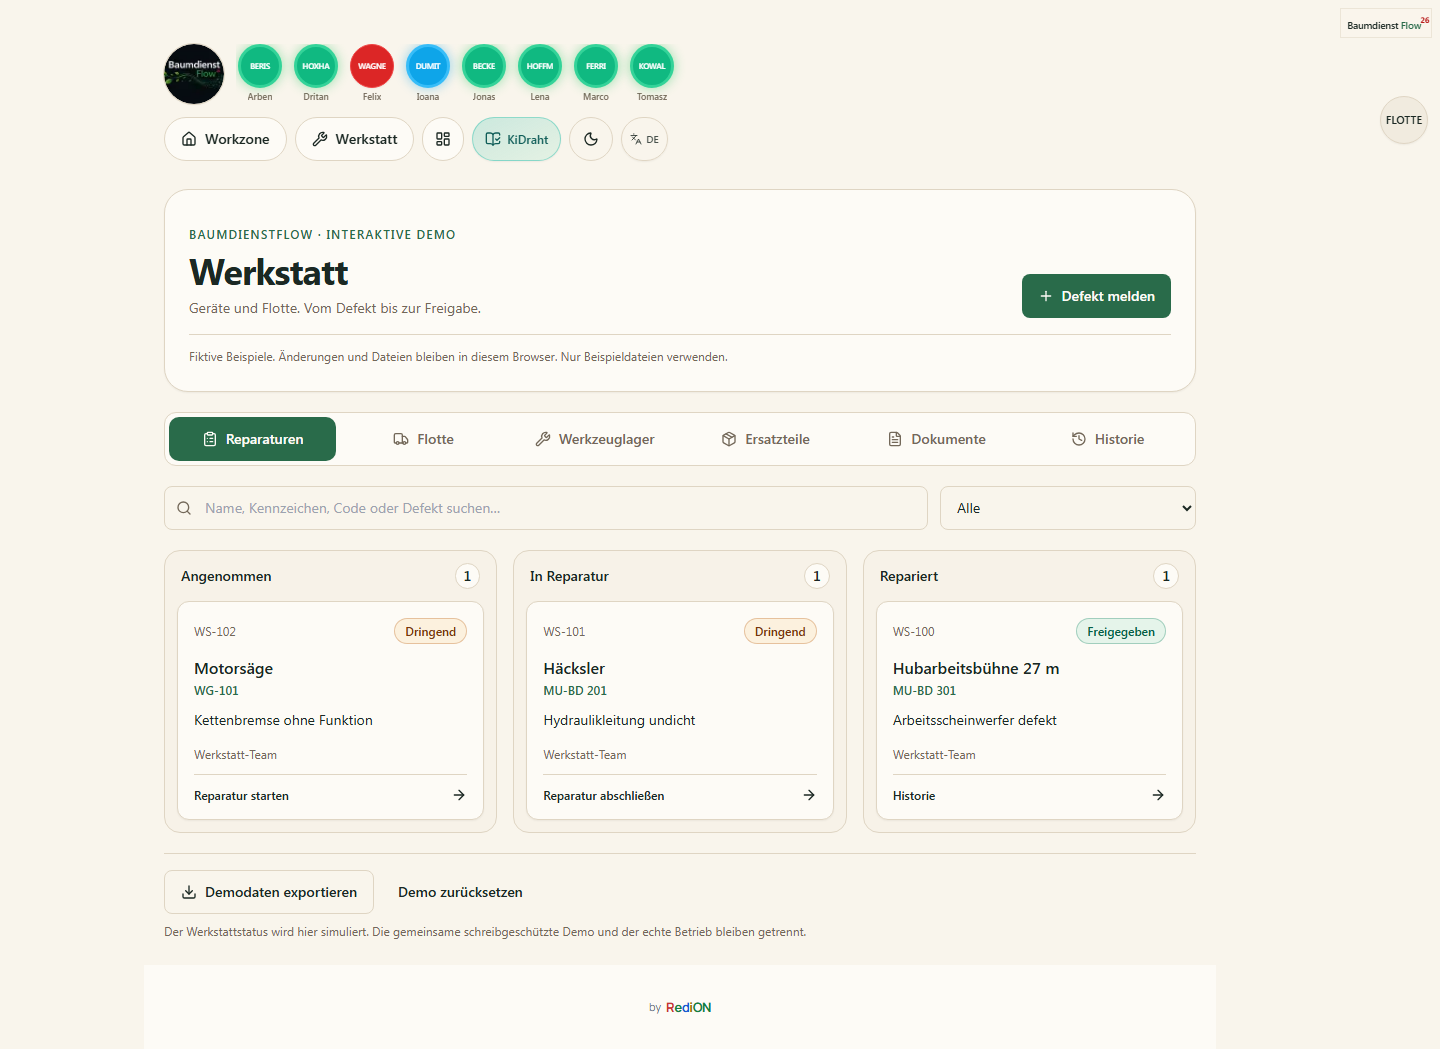
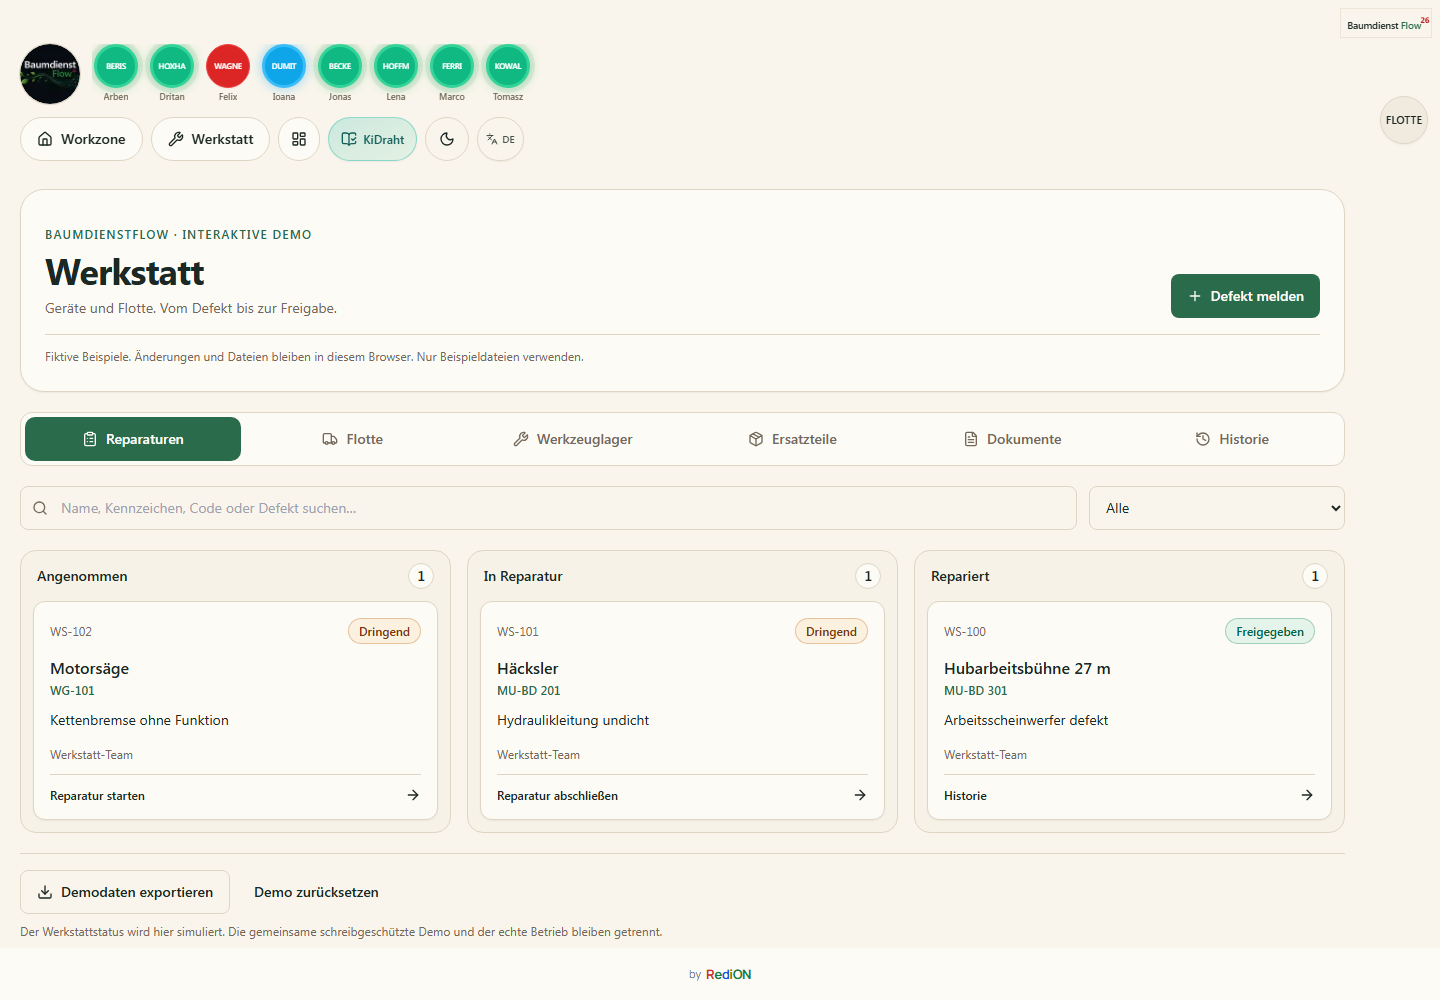
Use a viewport workspace and centered footer in Baumdienst demo

diff --git a/tests/workshop/workshop-workspace.spec.ts b/tests/workshop/workshop-workspace.spec.ts
@@ -1,0 +1,63 @@
+import { expect, test } from "@playwright/test";
+
+test("workspace uses the viewport, keeps shell reachable, and preserves small-save position", async ({ page, context }, info) => {
+  await context.addCookies([{ name: "bk_lang", value: "de", url: String(info.project.use.baseURL) }]);
+  await context.route("https://*.tile.openstreetmap.org/**", route => route.abort());
+  const errors: string[] = [];
+  page.on("pageerror", error => errors.push(error.message));
+  for (const theme of ["light", "dark"]) for (const size of [{ width: 1440, height: 900 }, { width: 390, height: 844 }, { width: 844, height: 390 }, { width: 390, height: 360 }]) {
+    await context.addCookies([{ name: "bk_theme", value: theme, url: String(info.project.use.baseURL) }]);
+    await page.setViewportSize(size);
+    for (const route of ["/demo/workshop", "/demo/workshop?tab=tools", "/demo/workzone", "/demo/dashboard"]) {
+      await page.goto(route);
+      const workspace = page.getByTestId("demo-workspace");
+      await expect(workspace).toBeVisible();
+      const signature = page.getByRole("link", { name: "by RediON", exact: true });
+      await expect(signature).toHaveCount(1);
+      const footer = (await signature.boundingBox())!;
+      expect(Math.abs(footer.x + footer.width / 2 - size.width / 2)).toBeLessThan(2);
+      expect(footer.y + footer.height).toBeLessThanOrEqual(size.height);
+      expect((await workspace.boundingBox())!.height).toBeGreaterThan(120);
+      const dimensions = await workspace.evaluate(el => ({ width: el.clientWidth, outer: document.documentElement.scrollHeight, viewport: innerHeight, wide: document.documentElement.scrollWidth <= innerWidth }));
+      expect(dimensions.width).toBeGreaterThan(size.width - 24);
+      expect(dimensions.outer).toBeLessThanOrEqual(dimensions.viewport + 1);
+      expect(dimensions.wide).toBe(true);
+      await workspace.evaluate(el => { el.scrollTop = el.scrollHeight; });
+      await expect.poll(async () => workspace.evaluate(el => el.scrollHeight - el.clientHeight - el.scrollTop)).toBeLessThanOrEqual(1);
+      const footerAfter = (await signature.boundingBox())!;
+      expect(footerAfter.y).toBe(footer.y);
+      const scrollers = await page.evaluate(() => [...document.querySelectorAll<HTMLElement>("body *")].filter(el => {
+        const s = getComputedStyle(el); return /auto|scroll/.test(s.overflowY) && el.scrollHeight > el.clientHeight + 2 && el.getBoundingClientRect().width > 0 && el.getBoundingClientRect().height > 0;
+      }).map(el => el.getAttribute("data-testid") || el.tagName));
+      expect(scrollers.filter(id => id !== "demo-workspace")).toEqual([]);
+      if (route === "/demo/workshop") await page.screenshot({ path: info.outputPath(`shell-${theme}-${size.width}-${size.height}.png`) });
+    }
+  }
+  // Text-only zoom retains readable wrapping without trapping the workspace.
+  await page.setViewportSize({ width: 390, height: 844 });
+  await page.goto("/demo/workshop");
+  await expect(page.getByRole("button", { name: "Defekt melden", exact: true })).toBeEnabled();
+  await page.addStyleTag({ content: "html { font-size: 200% !important; }" });
+  expect(await page.evaluate(() => document.documentElement.scrollWidth <= innerWidth)).toBe(true);
+  const zoomWorkspace = page.getByTestId("demo-workspace");
+  expect((await zoomWorkspace.boundingBox())!.height).toBeGreaterThan(120);
+  await zoomWorkspace.focus();
+  await page.keyboard.press("Control+End");
+  await expect.poll(async () => zoomWorkspace.evaluate(el => el.scrollHeight - el.clientHeight - el.scrollTop)).toBeLessThanOrEqual(1);
+  await page.getByRole("button", { name: "Demo zurücksetzen", exact: true }).scrollIntoViewIfNeeded();
+  await expect(page.getByRole("button", { name: "Demo zurücksetzen", exact: true })).toBeInViewport();
+  await page.screenshot({ path: info.outputPath("shell-text-zoom.png") });
+  await page.goto("/demo/workshop?tab=parts");
+  await expect(page.getByRole("button", { name: "Bestand auffüllen", exact: true }).last()).toBeEnabled();
+  const workspace = page.getByTestId("demo-workspace");
+  const restock = page.getByRole("button", { name: "Bestand auffüllen", exact: true }).last();
+  await restock.scrollIntoViewIfNeeded();
+  const before = await workspace.evaluate(el => el.scrollTop);
+  expect(before).toBeGreaterThan(50);
+  await restock.click();
+  await expect(page.getByTestId("workshop-demo").getByRole("status")).toContainText(/gespeichert/i);
+  const after = await workspace.evaluate(el => el.scrollTop);
+  expect(after).toBeGreaterThan(50);
+  expect(Math.abs(after - before)).toBeLessThan(100);
+  expect(errors).toEqual([]);
+});

diff --git a/src/app/demo/layout.tsx b/src/app/demo/layout.tsx
@@ -1,9 +1,12 @@
 import type { ReactNode } from "react";
+import type { Viewport } from "next";
 import { notFound } from "next/navigation";
 
 import { DemoTopBar } from "@/components/demo/demo-top-bar";
 import { DemoMachineRail } from "@/components/demo/demo-machine-rail";
 import { WorkshopFleet } from "@/components/demo/workshop/workshop-fleet";
+import { DemoWorkspace } from "@/components/demo/demo-workspace";
+import shellStyles from "@/components/demo/demo-workspace.module.css";
 import { RediOnFooter } from "@/components/branding/RediOnFooter";
 import { LiveRefreshListener } from "@/components/realtime/live-refresh-listener";
 import { getCompanyMode, getOrCreateDefaultCompany } from "@/lib/db/company";
@@ -11,6 +14,8 @@ import { getFeatures } from "@/lib/mode-config";
 import { prisma } from "@/lib/db/prisma";
 import { getMachineSidebarData } from "@/lib/workzone/machine-sidebar-data";
 import { isPublicDemoEnabled } from "@/lib/public-demo";
+
+export const viewport: Viewport = { width: "device-width", initialScale: 1, interactiveWidget: "resizes-content" };
 
 export default async function DemoLayout({ children }: { children: ReactNode }) {
   // No login on these pages: never serve them outside a demo/local instance.
@@ -63,8 +68,8 @@ export default async function DemoLayout({ children }: { children: ReactNode }) 
   const pageTone = mode === "baumdienst" ? "dark:bg-[#10211a]" : "";
 
   return (
-    <div className={`min-h-dvh overflow-x-hidden bg-background text-foreground ${pageTone}`}>
-      <header className={mode === "baumdienst" ? "relative z-10 bg-transparent print:hidden" : `sticky top-0 z-10 bg-background/90 backdrop-blur print:hidden ${pageTone}`}>
+    <div className={`${mode === "baumdienst" ? shellStyles.shell : "min-h-dvh overflow-x-hidden"} bg-background text-foreground ${pageTone}`}>
+      <header className={mode === "baumdienst" ? `${shellStyles.header} relative z-10 bg-transparent print:hidden` : `sticky top-0 z-10 bg-background/90 backdrop-blur print:hidden ${pageTone}`}>
         <div className="pt-3">
           <DemoTopBar
             mode={mode}
@@ -89,10 +94,10 @@ export default async function DemoLayout({ children }: { children: ReactNode }) 
       </header>
       {features.machines ? mode === "baumdienst" ? <WorkshopFleet machines={machines} now={new Date().toISOString()} /> : <DemoMachineRail machines={machines} /> : null}
       <LiveRefreshListener enabled />
-      <div className="mx-auto max-w-6xl lg:pr-20">
-        <main className={`${mode === "baumdienst" ? "px-5 pb-6 pt-4" : "px-5 pb-24 pt-4 lg:pb-6"} print:max-w-none print:px-0 print:py-0`}>{children}</main>
+      {mode === "baumdienst" ? <><DemoWorkspace>{children}</DemoWorkspace><div className={shellStyles.footer}><RediOnFooter compact /></div></> : <div className="mx-auto max-w-6xl lg:pr-20">
+        <main className="px-5 pb-24 pt-4 lg:pb-6 print:max-w-none print:px-0 print:py-0">{children}</main>
         <RediOnFooter />
-      </div>
+      </div>}
     </div>
   );
 }

diff --git a/src/components/demo/demo-top-bar.tsx b/src/components/demo/demo-top-bar.tsx
@@ -32,9 +32,9 @@ export async function DemoTopBar({ workers, mode }: { workers: DemoWorker[]; mod
 
   if (mode === "baumdienst") {
     const c = workshopCopy(currentLang); const dark = (await cookies()).get("bk_theme")?.value === "dark";
-    return <div className="mx-auto max-w-6xl px-5 pb-3 pt-8 lg:pr-20" data-testid="baum-demo-topbar">
-      <div className="flex min-w-0 items-start gap-3"><Link href="/demo/workzone" aria-label="BaumdienstFlow · Workzone" className="shrink-0 rounded-full focus-visible:outline-none focus-visible:ring-2 focus-visible:ring-ring"><AppBrand compact mode={mode} logoAlt={t("common.companyLogoAlt", currentLang)} /></Link><div className="min-w-0 flex-1"><WorkerIconStrip admin comfortable insetClassName="" profileHrefBase="/demo/workers" workers={workers.map(worker => ({ ...worker, activeProfile: false, pendingVacationRequest: false, vacationDecisionSignal: false, vacationDecisionSignalKey: null }))} /></div></div>
-      <nav aria-label="Demo" className="mt-3 flex flex-wrap items-center gap-2">
+    return <div className="w-full min-w-0 px-5 pb-3 pt-8 lg:pr-20" data-testid="baum-demo-topbar">
+      <div data-demo-teamrow className="flex min-w-0 items-start gap-3"><Link href="/demo/workzone" aria-label="BaumdienstFlow · Workzone" className="shrink-0 rounded-full focus-visible:outline-none focus-visible:ring-2 focus-visible:ring-ring"><AppBrand compact mode={mode} logoAlt={t("common.companyLogoAlt", currentLang)} /></Link><div className="min-w-0 flex-1"><WorkerIconStrip admin comfortable insetClassName="" profileHrefBase="/demo/workers" workers={workers.map(worker => ({ ...worker, activeProfile: false, pendingVacationRequest: false, vacationDecisionSignal: false, vacationDecisionSignalKey: null }))} /></div></div>
+      <nav data-demo-navigation aria-label="Demo" className="mt-3 flex flex-wrap items-center gap-2">
         <Link href="/demo/workzone" className="inline-flex min-h-11 items-center gap-2 rounded-full border bg-card px-4 text-sm font-medium focus-visible:ring-2 focus-visible:ring-ring"><Home className="size-4" />Workzone</Link>
         <Link href="/demo/workshop" className="inline-flex min-h-11 items-center gap-2 rounded-full border bg-card px-4 text-sm font-medium focus-visible:ring-2 focus-visible:ring-ring"><Wrench className="size-4" />{c.title}</Link>
         <Link href="/demo/workshop?tab=fleet" aria-label={`${c.fleet} · Demo`} className="inline-flex min-h-11 items-center gap-2 rounded-full border bg-card px-4 text-sm font-medium focus-visible:ring-2 focus-visible:ring-ring lg:hidden"><Truck className="size-4" />{c.fleet}</Link>

diff --git a/src/app/demo/dashboard/page.tsx b/src/app/demo/dashboard/page.tsx
@@ -300,7 +300,7 @@ export default async function DemoDashboardPage({ searchParams }: { searchParams
   ];
 
   return (
-    <div className="mx-auto max-w-7xl space-y-5 pb-8">
+    <div className="min-w-0 space-y-5 pb-8">
       <div className="overflow-hidden rounded-[28px] border border-border/80 bg-background/85 shadow-lg shadow-emerald-950/5 backdrop-blur supports-[backdrop-filter]:bg-background/75">
         <div className="flex flex-wrap items-center justify-between gap-4 bg-gradient-to-r from-emerald-500/[0.08] via-background to-background px-4 py-4 sm:px-5">
           <div className="min-w-0">
@@ -398,7 +398,7 @@ export default async function DemoDashboardPage({ searchParams }: { searchParams
             </div>
           </CardHeader>
           <CardContent className="p-4 pt-0 sm:p-5 sm:pt-0">
-            <div className="h-[340px] min-h-0 overflow-auto [scrollbar-width:none] [-ms-overflow-style:none] [&::-webkit-scrollbar]:hidden">
+            <div className={mode === "baumdienst" ? "min-w-0" : "h-[340px] min-h-0 overflow-auto [scrollbar-width:none] [-ms-overflow-style:none] [&::-webkit-scrollbar]:hidden"}>
               <WeeklyHoursTable rows={snapshot.charts.weekHoursByBaustelle} columns={snapshot.charts.weekHoursColumns} currentLang={currentLang} mode={mode} />
             </div>
           </CardContent>
@@ -412,7 +412,7 @@ export default async function DemoDashboardPage({ searchParams }: { searchParams
             </div>
           </CardHeader>
           <CardContent className="p-4 pt-0 sm:p-5 sm:pt-0">
-            <div className="h-[340px] min-h-0 overflow-auto [scrollbar-width:none] [-ms-overflow-style:none] [&::-webkit-scrollbar]:hidden">
+            <div className={mode === "baumdienst" ? "min-w-0" : "h-[340px] min-h-0 overflow-auto [scrollbar-width:none] [-ms-overflow-style:none] [&::-webkit-scrollbar]:hidden"}>
               <WorkerHoursToggleChart weekly={snapshot.charts.workerHours.weekly} monthly={snapshot.charts.workerHours.monthly} currentLang={currentLang} companyMode={mode} embedded />
             </div>
           </CardContent>

diff --git a/src/components/demo/workshop/workshop-demo.tsx b/src/components/demo/workshop/workshop-demo.tsx
@@ -174,7 +174,7 @@ export function WorkshopDemo({
     </header>
     <nav aria-label={c.filters} className="grid grid-cols-2 gap-1 rounded-xl border bg-card p-1 sm:grid-cols-3 lg:grid-cols-6">{workshopTabs.map(key => {
         const Icon = icons[key];
-        return <Link key={key} href={`/demo/workshop?tab=${key}${assetFilter ? `&asset=${encodeURIComponent(assetFilter)}` : ""}`} aria-current={tab === key ? "page" : undefined} className={`flex min-h-11 items-center justify-center gap-2 rounded-lg px-2 text-sm font-medium focus-visible:outline-none focus-visible:ring-2 focus-visible:ring-ring ${tab === key ? "bg-primary text-primary-foreground dark:text-black" : "text-muted-foreground hover:bg-muted"}`}><Icon className="size-4 shrink-0" />{c[key]}</Link>;
+        return <Link key={key} href={`/demo/workshop?tab=${key}${assetFilter ? `&asset=${encodeURIComponent(assetFilter)}` : ""}`} aria-current={tab === key ? "page" : undefined} className={`flex min-h-11 items-center justify-center gap-2 rounded-lg px-2 text-sm font-medium focus-visible:outline-none focus-visible:ring-2 focus-visible:ring-ring ${tab === key ? "bg-primary text-primary-foreground dark:text-black" : "text-muted-foreground hover:bg-muted"}`}><Icon className="size-4 shrink-0" /><span className="min-w-0 break-words">{c[key]}</span></Link>;
       })}</nav>
     {status !== "ready" && <p role="alert" className="rounded-xl border border-amber-600 bg-card p-4 text-sm">{c[status]}</p>}
     <div className="flex flex-col gap-3 sm:flex-row"><label className="relative min-w-0 flex-1"><Search className="absolute left-3 top-3.5 size-4 text-muted-foreground" /><input aria-label={c.search} placeholder={c.search} value={query} onChange={e => setQuery(e.target.value)} className={`${control} pl-10`} /></label>{tab !== "parts" && <select aria-label={c.asset} className={`${control} sm:w-64`} value={assetFilter} onChange={e => setAssetFilter(e.target.value)}><option value="">{c.all}</option>{state.assets.map(a => <option key={a.id} value={a.id}>{a.name} · {a.code}</option>)}</select>}</div>

diff --git a/tests/workshop/playwright.config.ts b/tests/workshop/playwright.config.ts
@@ -5,4 +5,4 @@ import { defineConfig } from "@playwright/test";
 const baseURL = process.env.WORKSHOP_DEMO_BASE_URL || "http://127.0.0.1:8765";
 const target = new URL(baseURL);
 if (target.protocol !== "http:" || !["127.0.0.1", "localhost"].includes(target.hostname) || target.username || target.password || target.pathname !== "/") throw new Error("Workshop E2E requires a loopback demo URL.");
-export default defineConfig({ testDir: ".", testMatch: "workshop-demo.spec.ts", workers: 1, timeout: 180000, expect: { timeout: 10000 }, reporter: "list", outputDir: "../../test-results/workshop", use: { baseURL, browserName: "chromium", viewport: { width: 1440, height: 1000 }, timezoneId: "Europe/Berlin", actionTimeout: 15000, navigationTimeout: 60000, trace: "retain-on-failure" } });
+export default defineConfig({ testDir: ".", testMatch: "workshop-*.spec.ts", workers: 1, timeout: 180000, expect: { timeout: 10000 }, reporter: "list", outputDir: "../../test-results/workshop", use: { baseURL, browserName: "chromium", viewport: { width: 1440, height: 1000 }, timezoneId: "Europe/Berlin", actionTimeout: 15000, navigationTimeout: 60000, trace: "retain-on-failure" } });

diff --git a/src/components/demo/demo-workspace.module.css b/src/components/demo/demo-workspace.module.css
@@ -1,0 +1,31 @@
+.shell {
+  display: grid;
+  grid-template-rows: auto minmax(0, 1fr) auto;
+  height: 100dvh;
+  min-width: 0;
+  overflow: hidden;
+}
+.header { min-width: 0; }
+.workspace {
+  position: relative;
+  min-height: 0;
+  min-width: 0;
+  overflow-y: auto;
+  overflow-x: hidden;
+  overscroll-behavior: contain;
+  scrollbar-gutter: stable;
+  scroll-padding-block: 16px;
+}
+.workspace:focus-visible { outline: 2px solid hsl(var(--ring)); outline-offset: -2px; }
+.footer { min-width: 0; width: 100%; }
+@media (max-height: 560px) {
+  .header > div { padding-top: 0; }
+  .header [data-testid="baum-demo-topbar"] { padding-top: 24px; padding-bottom: 4px; }
+  .header [data-demo-teamrow] { display: none; }
+  .header [data-demo-navigation] { margin-top: 0; max-width: 100%; min-height: 52px; flex-wrap: nowrap; overflow-x: auto; padding-block: 4px; scrollbar-width: thin; }
+  .header [data-demo-navigation] > * { flex-shrink: 0; }
+}
+@media print {
+  .shell { display: block; height: auto; overflow: visible; }
+  .workspace { height: auto; overflow: visible; }
+}

diff --git a/src/components/demo/demo-workspace.tsx b/src/components/demo/demo-workspace.tsx
@@ -1,0 +1,19 @@
+"use client";
+
+import { Suspense, useEffect, useRef, type ReactNode } from "react";
+import { usePathname, useSearchParams } from "next/navigation";
+import styles from "./demo-workspace.module.css";
+
+const workspaceClass = `${styles.workspace} px-5 pb-6 pt-4 lg:pr-20 print:max-w-none print:px-0 print:py-0`;
+function ScrollWorkspace({ children }: { children: ReactNode }) {
+  const ref = useRef<HTMLElement>(null);
+  const pathname = usePathname();
+  const query = useSearchParams().toString();
+  const location = `${pathname}?${query}`;
+  // Deliberate navigation starts at the top; small saves/refreshes keep position.
+  useEffect(() => { ref.current?.scrollTo({ top: 0 }); }, [location]);
+  return <main ref={ref} className={workspaceClass} tabIndex={0} data-testid="demo-workspace">{children}</main>;
+}
+export function DemoWorkspace({ children }: { children: ReactNode }) {
+  return <Suspense fallback={<main className={workspaceClass}>{children}</main>}><ScrollWorkspace>{children}</ScrollWorkspace></Suspense>;
+}

diff --git a/src/components/branding/RediOnFooter.tsx b/src/components/branding/RediOnFooter.tsx
@@ -7,10 +7,10 @@ const manrope = localFont({ src: "./fonts/manrope-variable.ttf", weight: "200 80
 const credit = { by: "by", red: "R", green: "e", blue: "d", yellow: "i", on: "ON" };
 
 /** `onDark` is for pages that paint their own dark background regardless of the theme (landing). */
-export function RediOnFooter({ onDark = false }: { onDark?: boolean }) {
+export function RediOnFooter({ onDark = false, compact = false }: { onDark?: boolean; compact?: boolean }) {
   return (
     <footer
-      className={cn(styles.footer, "print:hidden")}
+      className={cn(styles.footer, compact && styles.compact, "print:hidden")}
       data-theme={onDark ? "dark" : undefined}
     >
       <a className={cn(styles.credit, manrope.className)} href="https://www.redioncekrezi.de/" aria-label="by RediON">

diff --git a/src/components/demo/workshop/workshop-fleet.tsx b/src/components/demo/workshop/workshop-fleet.tsx
@@ -16,5 +16,5 @@ export function WorkshopFleet({ machines, now }: { machines: DemoMachine[]; now:
     links[machine.id] = { href: `/demo/workshop?tab=fleet&asset=${asset.id}`, label: c.open, status: c[status === "inspection" ? "inspectionDue" : status] };
     return { ...machine, isActive: machine.isActive && status !== "workshop" && status !== "inspection" };
   });
-  return <div className="hidden lg:block"><DemoMachineRail machines={fleet} initiallyOpen={false} workshopLinks={links} /></div>;
+  return <div className="pointer-events-none fixed inset-0 z-20 hidden lg:block [&_aside]:pointer-events-auto"><DemoMachineRail machines={fleet} initiallyOpen={false} workshopLinks={links} /></div>;
 }

diff --git a/src/components/branding/RediOnFooter.module.css b/src/components/branding/RediOnFooter.module.css
@@ -19,6 +19,7 @@
 }
 
 .footer[data-theme="dark"] { background: #10141d; }
+.compact { padding-block: 4px; }
 .credit { display: inline-flex; align-items: center; min-height: 44px; padding-inline: 6px; gap: 5px; white-space: nowrap; font-size: 11px; font-weight: 400; line-height: 1.6; color: var(--credit-by); text-decoration: none; border-radius: 4px; }
 .credit:focus-visible { outline: 2px solid currentColor; outline-offset: 3px; }
 .name { font-size: 13px; font-weight: 700; letter-spacing: -.35px; color: var(--credit-green); }

diff --git a/docs/BAUMDIENST_WORKSHOP_DEMO.md b/docs/BAUMDIENST_WORKSHOP_DEMO.md
@@ -21,6 +21,7 @@ Die drei Reparaturzustände sind **Angenommen → In Reparatur → Repariert**. 
 | Dokumente | Kein auftragsbezogener Werkstattbereich | Musterdateien an Gerät und optional Auftrag; Download und Speicherung nach Reload. Nur PDF/PNG/JPG/TXT, höchstens 256 KB je Datei und 1 MB insgesamt |
 | Historie | Ein Defekt lässt sich bisher nicht durch Annahme und Reparatur verfolgen | Zeit, Demo-Akteur, Zustand, Reparaturtext, verwendete Teile, Prüfung, Freigabe und Ausgabe/Rückgabe bleiben erhalten; Export und bewusstes Zurücksetzen betreffen nur den eigenen Demo-Schlüssel |
 | Darstellung | Potenziell widersprüchliche Verfügbarkeit; schwebende Flottentaste überdeckt auf dem Telefon Karten | Werkstattstatus wird in der Demo-Leiste berücksichtigt; der Telefon-Einstieg überdeckt keine Inhalte. Responsive Spalten, Suche und Filter; keine Drag-Pflicht |
+| Arbeitsfläche und Autorenzeile | Die bisherige Demo nutzt einen begrenzten Dokumentbereich; Dashboard-Listen haben zusätzliche 340px-Scrollbereiche | Baumdienst-Demo als viewportabhängige Grid-Shell: Header, genau ein scrollender Hauptbereich und ein über die gesamte Breite zentrierter Autorenlink. Listen wachsen natürlich im Hauptbereich; kurze Bildschirme erhalten eine kompakte, horizontal erreichbare Navigation. Kleine Speichervorgänge behalten die Position; bewusste Navigation startet oben |
 | Formulare | Frühe Klicks vor Hydration und unklare Select-Beschriftung wurden beim Browser-Test sichtbar | Mutationen erst nach Hydration; explizite Label-/ID-Verknüpfung, Dialog-Fokus und Escape-Rückkehr geprüft |
 | Native Präsentation | Neue Demo-Fähigkeit fehlt; dekorative Nummern auf parallelen Vorschaukarten | Nur auf einer Baumdienst-Demo-Instanz ein deutlich begrenzter Werkstatt-Einstieg; Kartennummern entfernt. Fachliche Reihenfolgen bleiben erhalten |
 
@@ -42,6 +43,8 @@ Die bestehenden schreibgeschützten Baustellen, Arbeitszeiten und Mitarbeiterpro
 - Chromium: vollständiger Reparatur-/Ersatzteil-/Freigabe-/Ausgabe-/Dokument-/Reload-/Export-/Reset-Ablauf; beschädigter Speicher; keine Page-Errors im geprüften Ablauf.
 - Alle sechs UI-Sprachen; 1440/768/390/320px, hell/dunkel, alle Werkstattbereiche, kein horizontaler Seitenüberlauf; primäre Aktionen mindestens 44px, Textkontrast der primären Aktion mindestens 4,5:1, Dialog/Escape/Fokusrückkehr und ein Autorenlink geprüft.
 - Native Präsentation in SQ/EN/DE/IT auf Desktop und Telefon; Workzone, Dashboard und Baustellendetail bei 1440/390px in beiden Themes geprüft. Vor-/Nachvergleich der nativen Karten und des geteilten Headers.
+- Zusätzliche Shell-Prüfung: Desktop 1440×900, Telefon 390×844, Landscape 844×390 und tastaturähnlich verkleinerte Fläche 390×360; beide Themes, Workzone/Dashboard/Werkstatt, stationäre Autorenzeile, erster/letzter Inhalt, ein vertikaler Haupt-Scroller, 200% Textgröße und Position nach einer kleinen Lagerbuchung. Die relative Positionierung des Hauptbereichs verhindert, dass absolut platzierter Status-Text im kurzen Bildschirm einen äußeren Scrollbereich erzeugt.
+- `interactive-widget=resizes-content` ist gesetzt. Eine echte Bildschirmtastatur auf einem physischen iOS-/Android-Gerät bleibt **PENDING_RECHECK**; die verkleinerte Browserfläche ist kein vollständiger Gerätetest.
 - Keine Cloud-Actions gestartet. Frühere vollständige GPS-, OCR-, Backup-, Foto- und Stahlproduktionspakete wurden nicht erneut ausgeführt; ihre reale Abnahme bleibt getrennt.
 
 Die Tests stehen unter `src/lib/workshop/demo-model.test.ts` und `tests/workshop/`. Die Browser-Suite verlangt eine bereits gestartete, fiktive Loopback-Demo und weist öffentliche/entfernte Targets ab. Lokale Befehle: `vitest run src/lib/workshop/demo-model.test.ts`, `playwright test -c tests/workshop/playwright.config.ts`, fokussiertes ESLint und `next build --webpack`.
